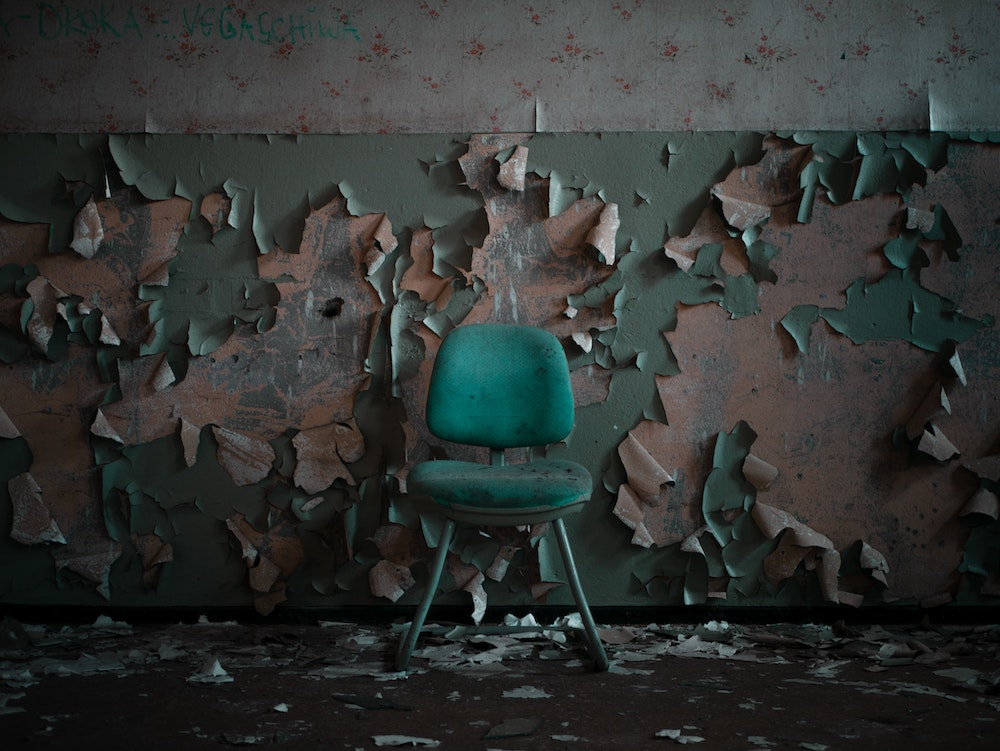
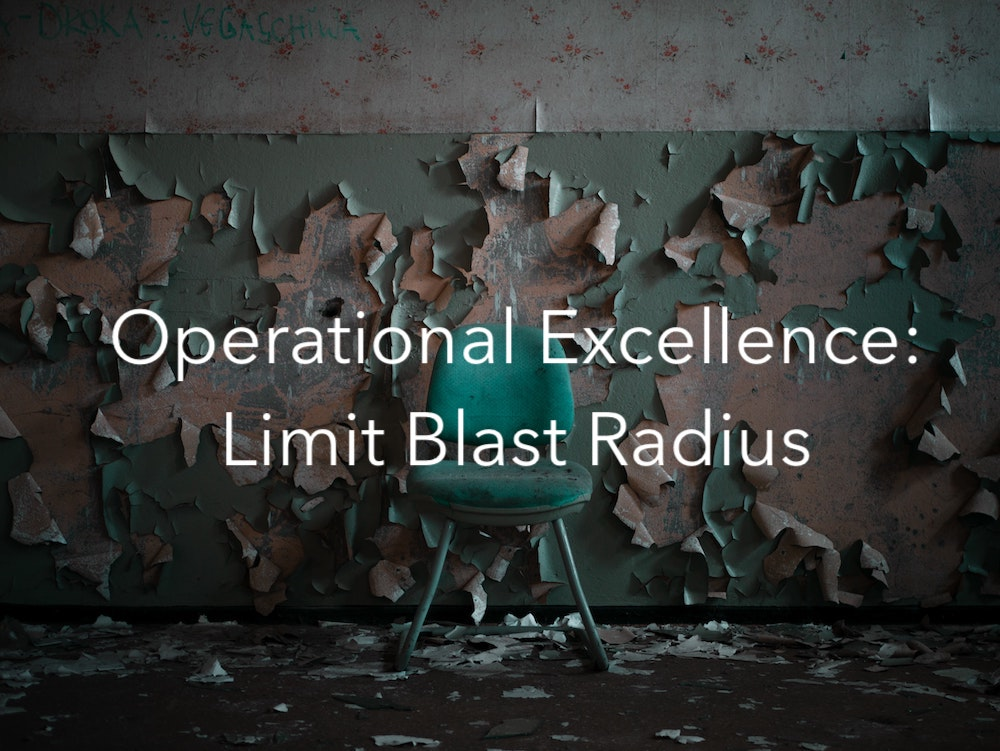
first blast version ready

diff --git a/content/en/posts/limit_blast_radius.md b/content/en/posts/limit_blast_radius.md
@@ -1,9 +1,9 @@
 ---
 title: "Operational Excellence: Limit Blast Radius"
-date: 2023-01-05T10:35:00+01:00
-draft: true
+date: 2023-01-08T23:35:00+01:00
+draft: false
 featured_image: "/images/blast.webp"
-images: ["/images/blast.webp"]
+images: ["images/blast.jpg"]
 tags: [Operational Excellence]
 toc: true
 ---
@@ -11,6 +11,8 @@ toc: true
 Trying to prevent all failures is a foolish endeavor. This doesn't mean you're not supposed to prevent and reduce failures as much as you can, but limiting the impact of failures turned out to be the most impactful strategy I found to improve Operational Excellence so far. In this article, we'll explore some strategies to limit the pain of outages in your software system. 
 
 The metaphor of "blast radius" describes how _far_ a problem in your system travels. In poorly resilient distributed systems, failures propagate and take usually the whole thing down with it.[^1] There are multiple dimensions of "radius" that you can tackle, and we'll take a look at them through this article:
+
+> Everything fails, all the time. – Werner Vogels
 
 We can limit problems to:
 * a subset of your application - only one use-case will fail, others will keep working
@@ -86,14 +88,38 @@ For pretty big config changes a "playground" environment can be useful though, t
 
 So what does this leave us? 
 
-I believe that ***canary deployments*** are also a very useful tool for configuration changes when your configuration is applied as a step in your CI/CD pipeline. Unfortunately this will probably prolong your rollout period, as config changes often don't blow up right away.
+I believe that ***canary deployments*** are also a very useful tool for configuration changes when your configuration is applied as a step in your CI/CD pipeline. Unfortunately, this will probably prolong your rollout period, as config changes often don't blow up right away.
 
-Besides that, the best lever I found is to improve Time to Detection and Time to Restore for such failures: Invest in a great monitoring and observability tooling, keep the noise down and when a faulty change get's pushed out
-
+Besides that, the best lever I found is to improve Time to Detection and Time to Restore for such failures: Invest in great monitoring and observability tooling: Keep the noise down and when a faulty change gets pushed out, you will notice right away. Then you can quickly correct and limit the temporal impact of the problem.
 
 ## 3 Dependency Failures
 
-#### Resiliency Patterns between Services
+If your system grows and becomes more of a distributed problem, usually your rate of incidents grows: Unfortunately the uptimes of multiple systems multiply: 
+
+Imagine you have two dependent Services A and B. If your service A has an availability of 99% and Service B has also an availability of 99%, the resulting availability is ```0,99*0,99=0,98```, so your complete system has only a 98% Availability. This is a very simple example indeed, but it drives home the point that if you have a distributed system with a high number of components in there, and if your architecture requires everything to be working all the time, you'll have a very bad time.
+
+A lot has been written about proper resiliency patterns, and I can only scratch the surface here with some introductory teasers about patterns useful to limit the blast radius of outages. To prevent failures from cascading, you want to use patterns that try to ***isolate*** concerns. If you want to learn more, you can start with [this slideshow](https://www.slideshare.net/ufried/resilience-reloaded-more-resilience-patterns)
+
+### Fallbacks
+
+If you embrace failure when consuming anything from a dependent service, the easiest thing to do is find a fallback response if the service is not available. For (a simple) example, if you need a profile picture from an image service, you could fall back to a generic avatar that you have stored yourself. 
+
+### Timeouts
+
+Simple, but often forgotten to implement: If you call external resources over the wire, make sure to stop waiting at some point and return a graceful degradation if you don't get an answer in time. 
+
+### Bulkheads
+
+Borrowed from the idea of hulls for ships, you try to allocate only a limited part of the overall system resources to a certain part of your service - like a fixed thread pool. If one of your downstream dependencies acts up an a malicious way, it can't take your whole service down, therefore limiting the blast.
+
+### Prefer asyncronous communication
+
+Even though not fitting for every use case, when it's available to you it's quite helpful. If you can drop a message to another Unit in your system without waiting for approval, or reacting to an answer whenever it happens to be available, you are a lot less likely to be disturbed. There is a reason why Actor-based systems are amongst the most resilient applications.
+
+### Retries, exponential backoffs and Circuit Breakers
+
+Retries are again nice and simple but often forgotten: If your downstream dependency breaks, just try again. Sometimes, you'll get a reasonable answer next time around. To avoid avalanche-like problems though I would suggest to always combining retries with exponential backoffs, and if you really want to be nice to your downstream dependency, with circuit breakers. This way you'll improve your chance of rescuing your request (and not having a problem in the first place), without taking down the whole ship in the attempt to do so.
+
 
 ## 4 Infrastructure Failures
 
@@ -101,13 +127,12 @@ So your whole data center just went down, because _someone_ was not paying atten
 
 This is one of the harder problems to avoid as other people are involved here, and usually, a costly one to prevent. If you can, running hot standbys in multiple Datacenters can help you here, but this has severe architectural implications. It's up to you to make a financial calculation if it's worth it to you. Speaking from a European perspective though - it makes sense to not run things in the one region that your cloud provider uses to beta test new features. I would always opt for more boring, but also more stable regions. 
 
-But there will be smaller infrastructure failures - Bad machines, bad disks and bad network links will appear if you just run a large application long enough. I think your best bet is to treat them as 
+But there will be smaller infrastructure failures - Bad machines, bad disks and bad network links will appear if you just run a large application long enough. I think your best bet is to treat them the same way as dependency failures from point 3 - by introducing resilience patterns into your stack. 
 
+## How to know you are ready?
 
+If you are already working against a stream of outages, you should hopefully see positive signals and fewer outages over time. But all of that could be a coincidence, so how do you know that the work outlined in this article has paid off? The answer is chaos engineering. The best way of knowing that your system is stable is by poking (controlled) holes into it, and watching how it behaves. The best-known actor on the block is surely the [Chaos Monkey](https://github.com/netflix/chaosmonkey) and the rest of the simian army from Netflix, who were pioneers on this area. By now there is a lot more tooling out there like [Steadybit](https://steadybit.com/) and many more. I think reading [Chaos Engineering](https://www.amazon.de/-/en/Casey-Rosenthal/dp/1492043869) might help as well
 
-
-
-### Limit affected users
 
 
 [^1]: It's always helpful to remind yourself of the 8 fallacies of distributed computing: https://web.archive.org/web/20171107014323/http://blog.fogcreek.com/eight-fallacies-of-distributed-computing-tech-talk/

diff --git a/content/en/posts/grow_staff_engineers.md b/content/en/posts/grow_staff_engineers.md
@@ -3,7 +3,7 @@ title: "How to grow staff engineers"
 date: 2022-11-29T15:35:00+01:00
 draft: false
 featured_image: "/images/grow.webp"
-images: ["/images/grow.webp"]
+images: ["images/grow.webp"]
 ---
 
 Let's discuss how Engineering Managers can support their people on the journey toward the Staff Engineer Role. Why should we as EMs care about that? Of course, their success is your success and having staff engineers in your group lifts you up as well. But more important is that having one or more staff engineers in your group will allow you to kick in a few metaphorical technical doors toward a larger organizational impact. These are the people that can solve big and tricky problems for you. Ultimately, without them, you won't grow into a more senior manager role. I assume most "great" engineering organizations make it a career progression requirement for EMs anyway. But the growth path of someone from mid-level individual contributor towards senior is different from the growth towards staff, and we EMs get very little guidance on that.

diff --git a/content/en/posts/follow_the_doctrine.md b/content/en/posts/follow_the_doctrine.md
@@ -3,7 +3,7 @@ title: "Follow the doctrine, bring your own tactics"
 date: 2022-11-23T22:35:00+01:00
 draft: false
 featured_image: "/images/doctrine.webp"
-images: ["/images/doctrine.webp"]
+images: ["images/doctrine.webp"]
 ---
 
 This is one of my larger learnings of the last year(s) as an Engineering Manager and as a Manager of other Engineering Managers. It's also something I had to learn the hard-ish way as I did it wrong in my first leadership role, and watched peers struggle hard in my current role. My default brain setting is "anarchism" and I have a hard time following the rules, whatever they may be, so this one is a particularly hard challenge for me. This article is about following "Doctrine", avoiding the "Problem of the week", and distinguishing between these two. 

diff --git a/content/en/posts/writing_as_a_superpower.md b/content/en/posts/writing_as_a_superpower.md
@@ -3,7 +3,7 @@ title: "Writing is your Superpower"
 date: 2022-12-13T10:35:00+01:00
 draft: false
 featured_image: "/images/writing.webp"
-images: ["/images/writing.webp"]
+images: ["images/writing.webp"]
 ---
 
 We all can benefit from being proficient at technical writing - no matter if we are Software Engineers, Product Managers, Engineering Managers or Designers. In the last decade of working in tech, I found one of the most remarkable shifts in how we work to be the switch to remote work. Especially after the pandemic and the hyperinflation of Video calls, our mode of work shifted a lot towards more asynchronous communication. This includes more Emails, chat messages, technical documents and project plans. 

diff --git a/content/en/posts/gratitude.md b/content/en/posts/gratitude.md
@@ -3,7 +3,7 @@ title: "On Gratitude"
 date: 2022-11-19T10:35:00+01:00
 draft: false
 featured_image: "/images/gratitude.webp"
-images: ["images/gratitude.webp"]
+images: ["images/gratitude.jpg"]
 ---
 
 As I am jumpstarting this blog, I would like to start this project with some thoughts around **Gratitude** towards the life I was able to build by working in the tech industry. *Let's see for how long I can keep it up, as many blogs get started, and few get kept running.*

diff --git a/content/en/posts/oe_learn_from_failure.md b/content/en/posts/oe_learn_from_failure.md
@@ -3,7 +3,7 @@ title: "Operational Excellence: Learning from failure"
 date: 2022-12-21T10:35:00+01:00
 draft: false
 featured_image: "/images/fail.webp"
-images: ["/images/fail.webp"]
+images: ["images/fail.webp"]
 tags: [Operational Excellence]
 ---
 
